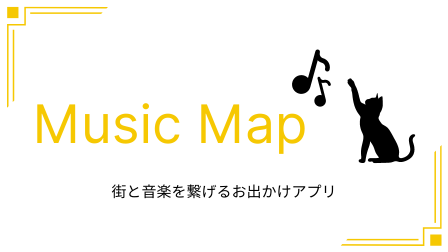
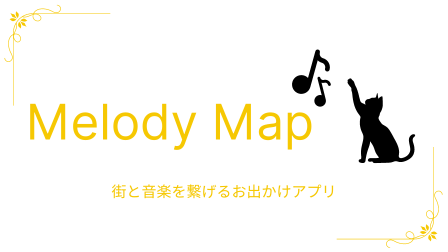
change: アプリ名の変更

diff --git a/app/helpers/application_helper.rb b/app/helpers/application_helper.rb
@@ -8,13 +8,13 @@ module ApplicationHelper
   end
 
   def page_title(title = "")
-    base_title = "MusicMap"
+    base_title = "MelodyMap"
     title.empty? ? base_title : "#{title} | #{base_title}"
   end
 
   def default_meta_tags
     {
-      site: "MusicMap",
+      site: "MelodyMap",
       title: "街と音楽を繋げるお出かけアプリ♪",
       reverse: false,
       charset: "utf-8",

diff --git a/README.md b/README.md
@@ -1,4 +1,4 @@
-## Music Map
+## Melody Map
 
 
 
